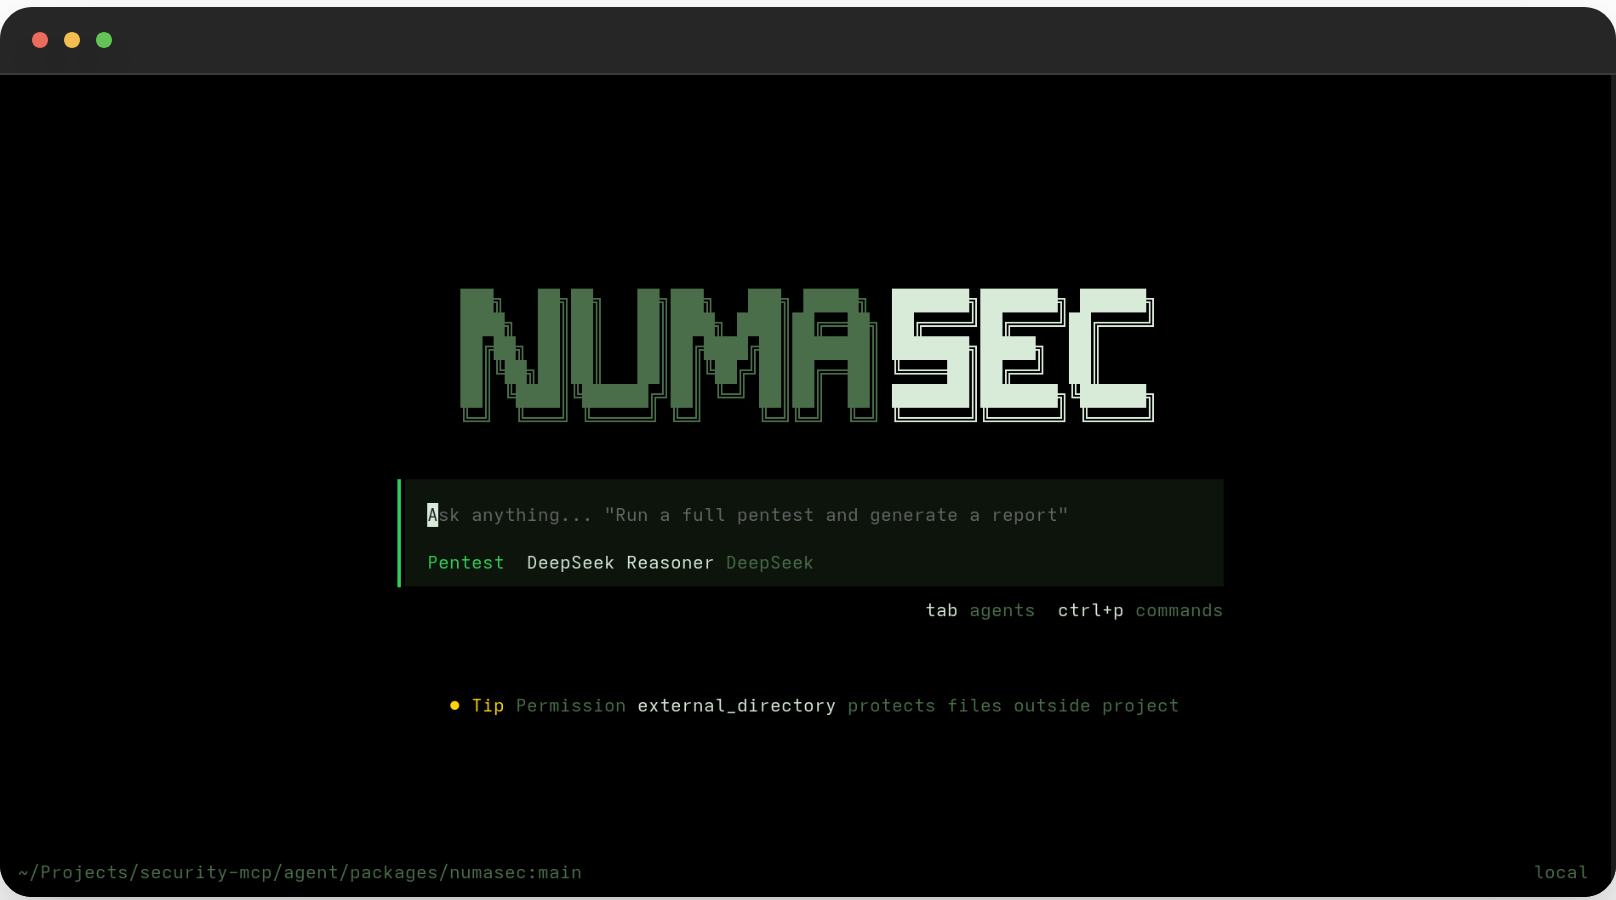
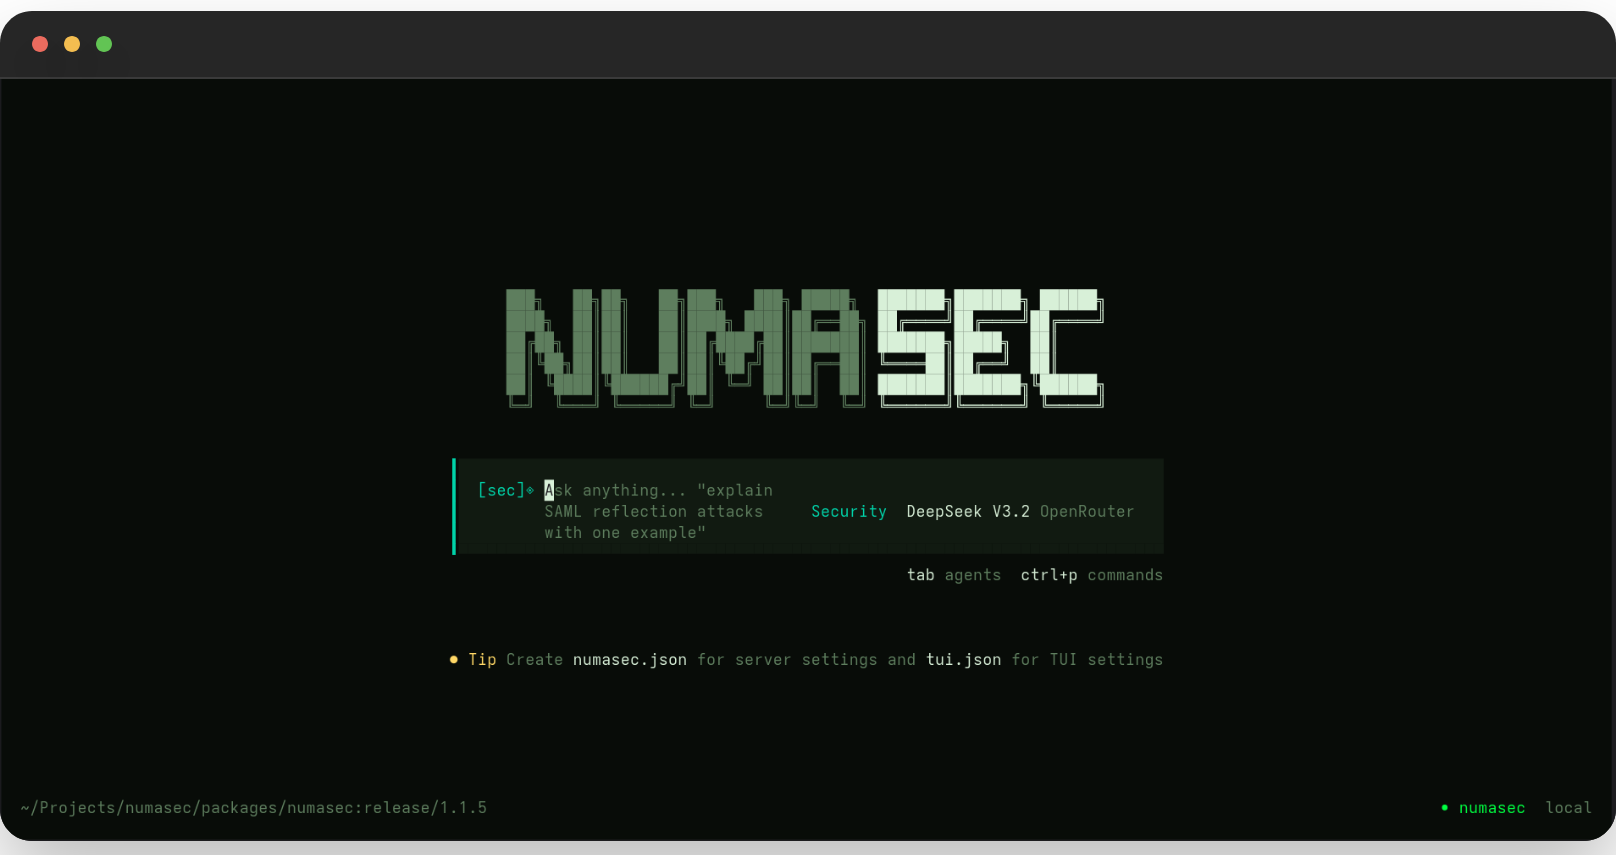
[1.1.5] assets: rename hero/readmeimage, replace sidebar placeholder with operations, clean footer label

diff --git a/packages/numasec/src/cli/cmd/tui/feature-plugins/home/footer.tsx b/packages/numasec/src/cli/cmd/tui/feature-plugins/home/footer.tsx
@@ -59,7 +59,7 @@ function Label(props: { api: TuiPluginApi }) {
 
   return (
     <box flexShrink={0}>
-      <text fg={theme().primary}>• numasec local</text>
+      <text fg={theme().primary}>• numasec</text>
     </box>
   )
 }

diff --git a/README.md b/README.md
@@ -16,12 +16,8 @@
   <a href="https://github.com/FrancescoStabile/numasec/stargazers"><img src="https://img.shields.io/github/stars/FrancescoStabile/numasec?style=for-the-badge&color=yellow&logo=starship" alt="stars"></a>
 </p>
 
-<!-- HERO GIF — 15–20s on a dark terminal:
-     user types `/pwn juice-shop.local`, numasec maps surface, chains a finding,
-     and drops a Pulse card. Recommended width 900px. Replace `assets/hero.gif`. -->
 <p align="center">
   <img src="assets/hero.gif" alt="numasec running a full pentest from the TUI" width="900" />
-  <br/><sub><em>Placeholder — record ~20s of <code>/pwn</code> on Juice Shop and drop the gif at <code>assets/hero.gif</code>.</em></sub>
 </p>
 
 ---
@@ -100,19 +96,15 @@ Every engagement is a file (`.numasec/operation/<slug>/numasec.md`) auto-loaded 
 
 Think "GitHub Actions for pentest workflows". A Play is a YAML-ish script that drives the agent through a reproducible attack/defense flow with parameters, gates, and artefacts. 5 ship in the box (`web-surface`, `appsec-triage`, `pwn`, `osint-passive`, `remediation-loop`) — write your own in any plugin.
 
-### Sidebar widgets — situational awareness, always visible
+### Operations — per-engagement persistent memory
 
-<!-- SIDEBAR GIF — 8s pan across the right column showing Pulse → Plan → Activity → Doctor.
-     Drop at assets/sidebar.gif. -->
 <p align="center">
-  <img src="assets/sidebar.gif" alt="sidebar widgets: Pulse, Plan, Activity, Doctor" width="900" />
-  <br/><sub><em>Placeholder — record the sidebar with a live op running.</em></sub>
+  <img src="assets/operations.gif" alt="creating an operation with /operations" width="900" />
 </p>
 
-- **Pulse** — live target/engagement status
-- **Plan** — TodoWrite sync, works on *any* LLM (Claude, GPT-5, Gemini, Ollama, …)
-- **Activity** — tool calls streaming in real time
-- **Doctor** — green/red dots for every dependency, OPSEC flag, model health
+Every engagement lives in a file — `.numasec/operation/<slug>/numasec.md` — auto-loaded as a system instruction for every session opened in that workspace. Target, scope, findings, dead-ends: it all persists. Switch context with `/operations`, pick up exactly where you left off.
+
+The sidebar keeps you oriented while the agent runs: **Pulse** shows live target/engagement status, **Plan** tracks the agent's todo list in real time (works on any LLM — Claude, GPT-5, Gemini, Ollama), **Activity** streams tool calls as they happen.
 
 ### Benchmark harness
 
@@ -132,13 +124,6 @@ Merged the old `secrets` + `auth-as` palette-cruft into a single `vault` tool ba
 - **Attack surface recon.** Crawl, directory fuzz, JS static analysis, port scan, service fingerprint as first-class primitives.
 - **OOB callbacks, crypto primitives, net probes, auth profiles.** The pieces a real operator needs that stock chat assistants don't have.
 - **Any LLM.** Anthropic, OpenAI, Google, xAI, OpenRouter, Bedrock, GitHub Models, Ollama, any OpenAI-compatible endpoint. The model is the brain, numasec is the hands.
-
-<!-- ATTACK-CHAIN GIF — 10–15s showing an IDOR → privesc chain with evidence card.
-     Drop at assets/attack-chain.gif. -->
-<p align="center">
-  <img src="assets/attack-chain.gif" alt="discovering IDOR → privilege escalation" width="900" />
-  <br/><sub><em>Placeholder — record an IDOR→privesc chain on a lab target.</em></sub>
-</p>
 
 ---
 
